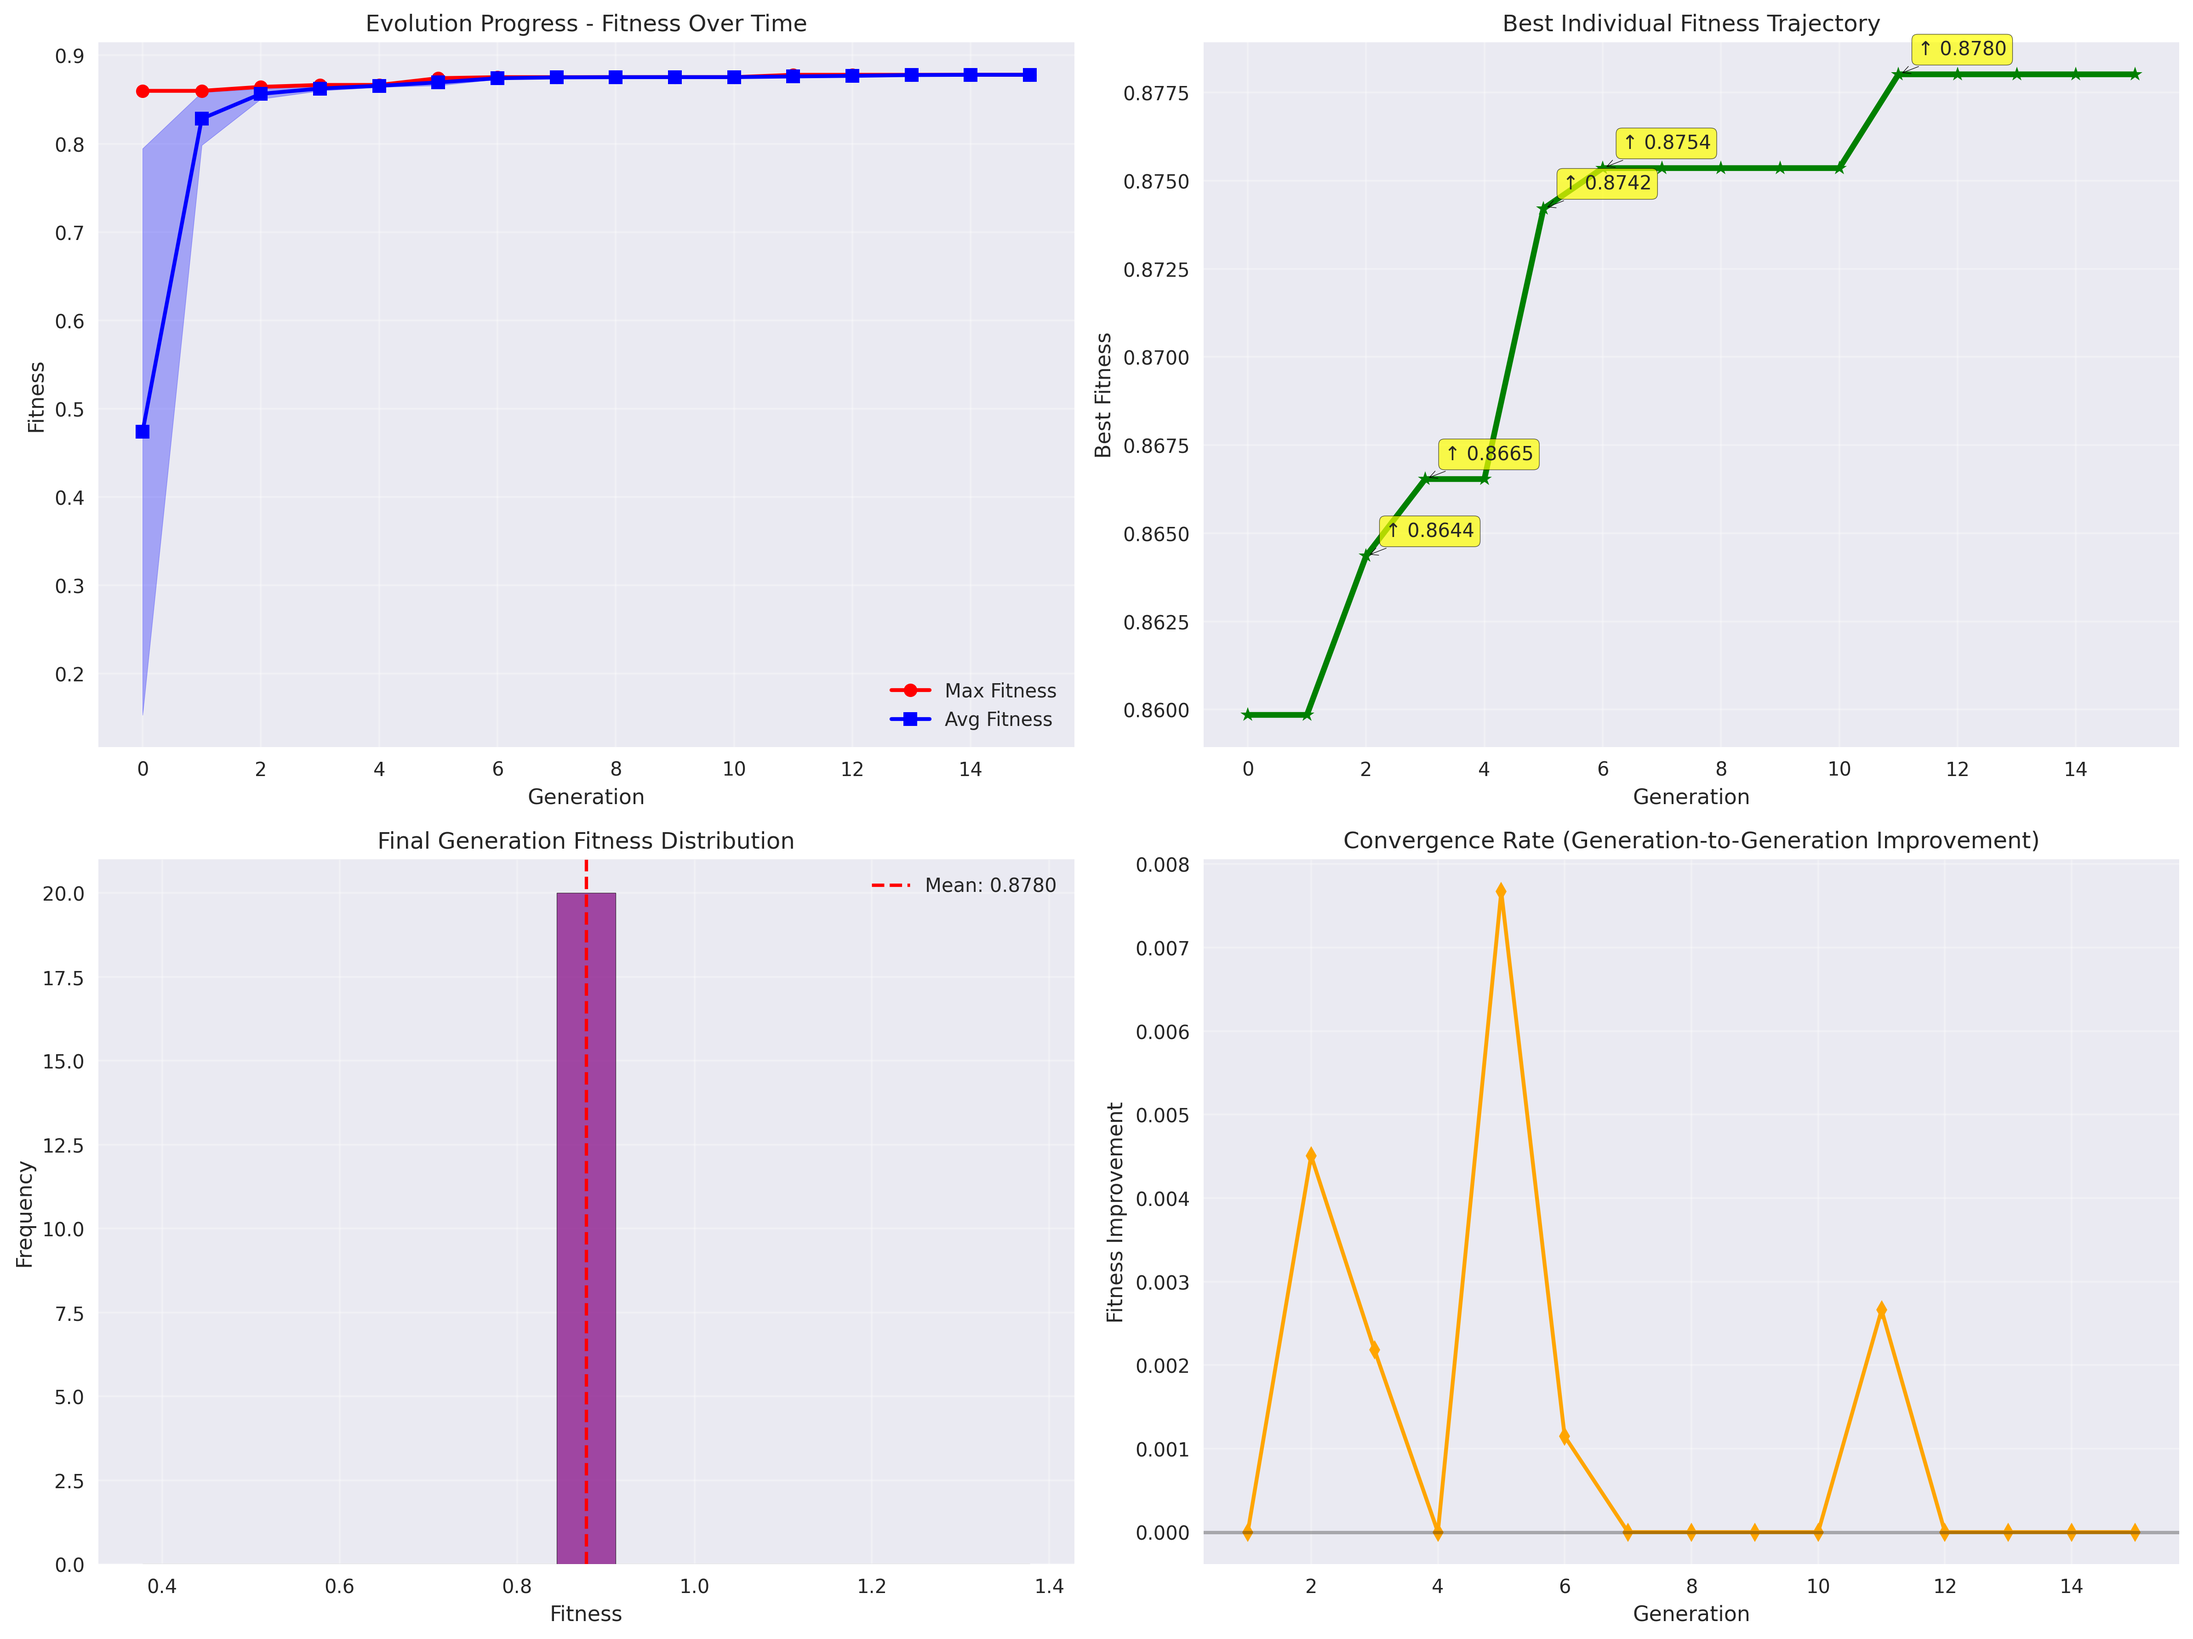
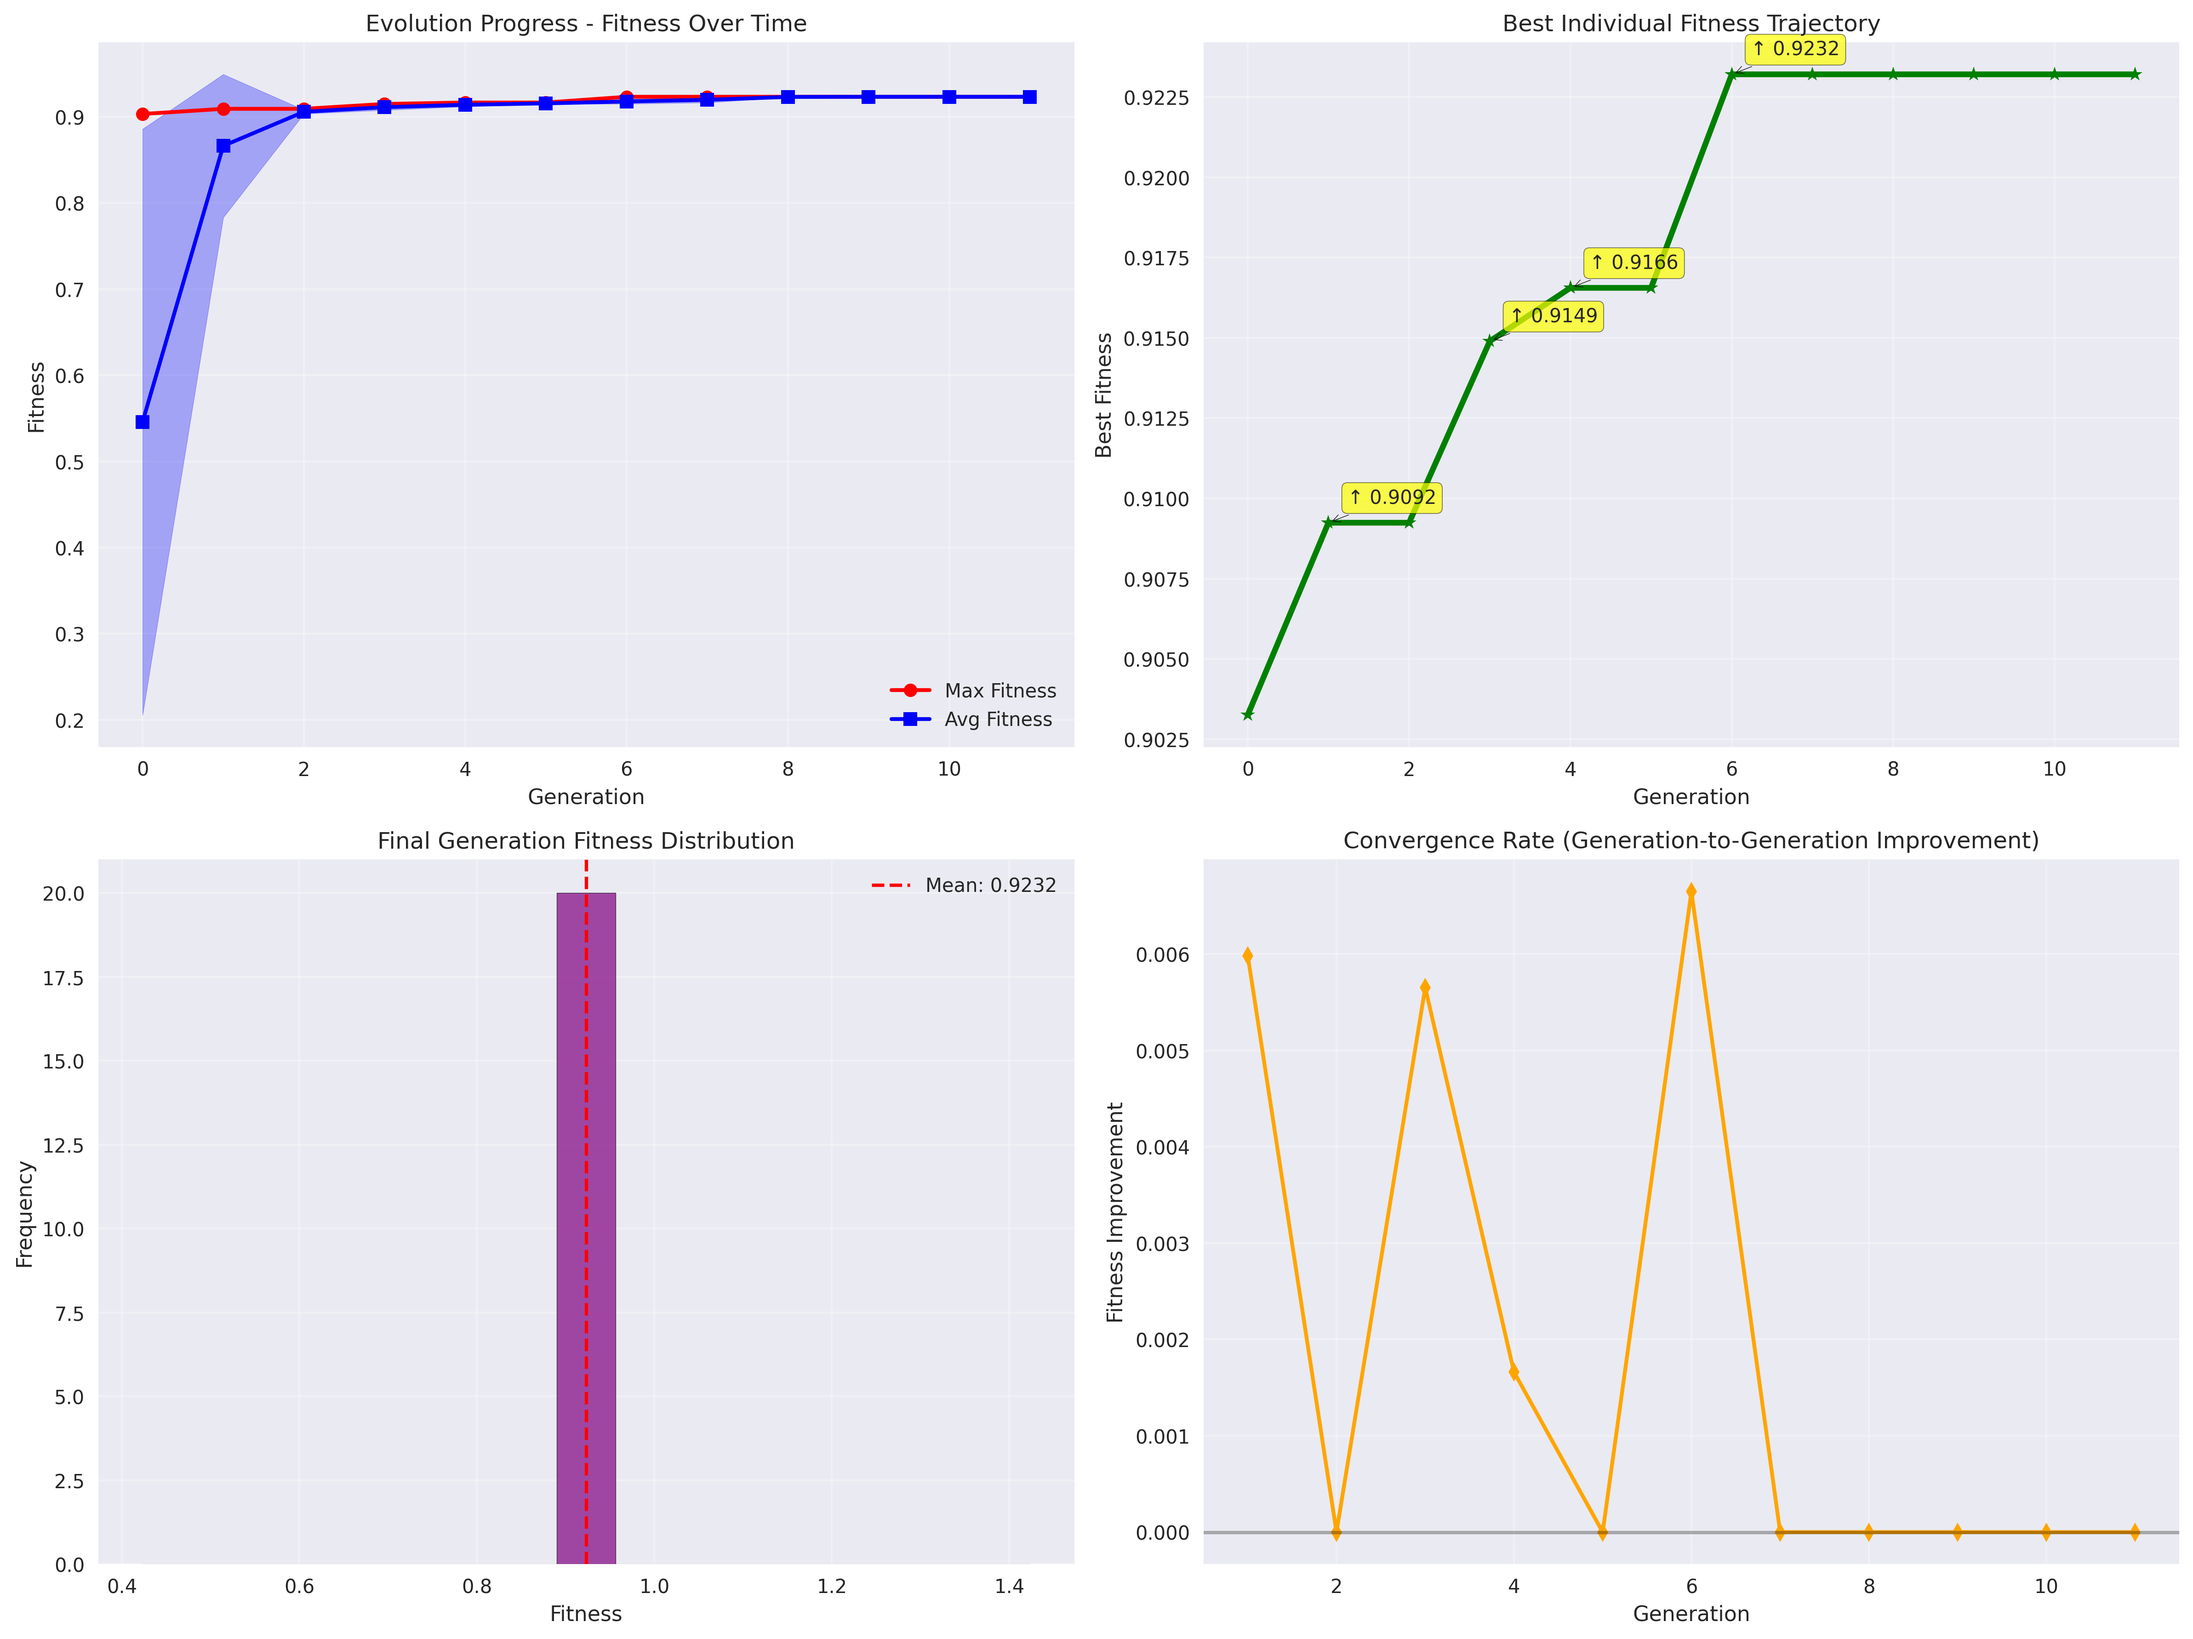
pretty good plots

diff --git a/src/genotype.py b/src/genotype.py
@@ -184,7 +184,7 @@ def bounded_mutation_with_depth(individual, mu=0, sigma=0.15, indpb=0.2):
     # Mutate number of layers (increased probability)
     if RNG.random() < 0.3:  # Increased from 0.15
         # Allow both adding and removing layers
-        change = RNG.choice([-1, 0, 1])  # Can remove, stay same, or add
+        change = 1 if RNG.random() < 0.75 else -1 # Can remove, stay same, or add
         new_num_layers = max(1, min(8, num_layers + change))
 
         if new_num_layers > num_layers:
@@ -318,7 +318,7 @@ def evaluate_model_with_depth(individual):
         loss_fn = nn.CrossEntropyLoss()
 
         # Depth-adaptive training - deeper networks get more training
-        max_batches = min(300, 100 + num_layers * 25)
+        max_batches = min(500, 150 + num_layers * 50)
         
         # Extended training loop
         model.train()

diff --git a/src/manager.py b/src/manager.py
@@ -89,8 +89,8 @@ toolbox.register("select", tools.selTournament, tournsize=POP_SIZE // 4)
 
 def run_evolution():
     pop_size = POP_SIZE
-    pop = toolbox.population(n=pop_size)
-    hof = tools.HallOfFame(pop_size / 10)
+    pop = toolbox.population(POP_SIZE)
+    hof = tools.HallOfFame(POP_SIZE // 4)
 
     stats = tools.Statistics(lambda ind: ind.fitness.values)
     stats.register("avg", np.mean)
